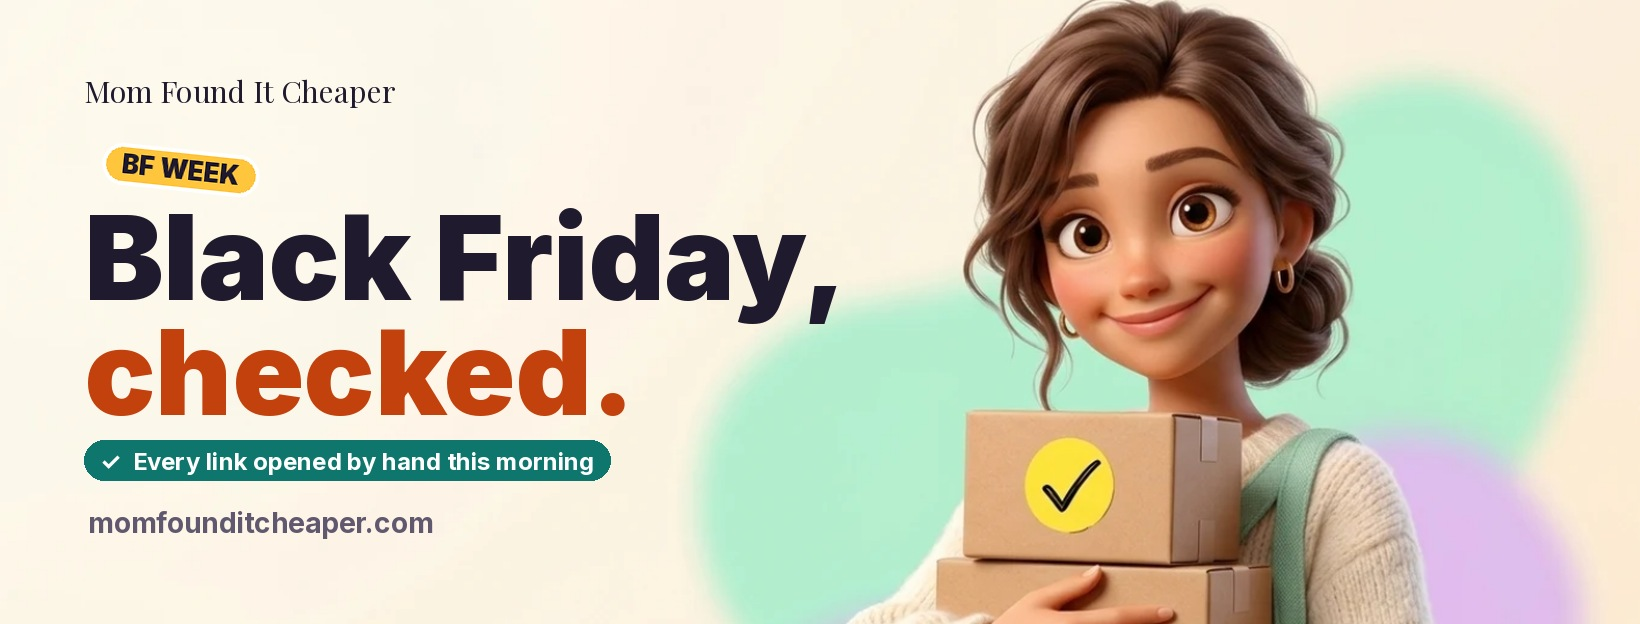
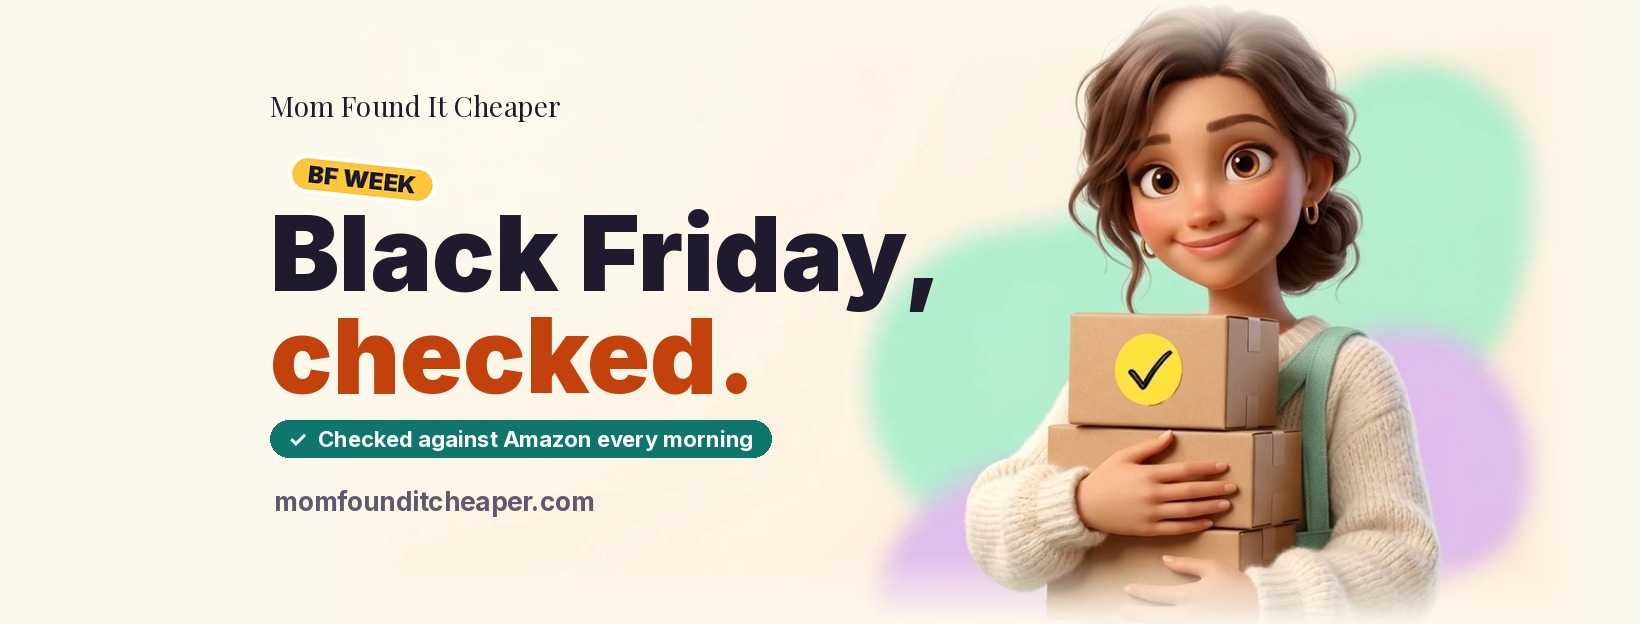
QA fixes: truthful check times, tier from Amazon check only, no fabricated drop, no aggregator names/counts, mom-weighted Top 5, tangerine budget, no dark fills, covers in safe zones, hit.js hardened
Claude-Session: https://claude.ai/code/session_013VSLL9D9UfzTwCfefZ99GJ

diff --git a/functions/hit.js b/functions/hit.js
@@ -1,23 +1,29 @@
 // Cloudflare Pages Function: our own click/save counter (no third party, no cookies).
-// POST /hit  {"k":"B0XXXX","t":"click"|"save"}  -> increments KV counter  hit:<t>:<k>
+// POST /hit  {"k":"B0XXXX"}  -> increments KV counter hit:click:<k> (same-site origin only)
 // GET  /hit?k=B0XXXX,B0YYYY                     -> {"B0XXXX":{"click":12,"save":3},...}
-// Needs a KV namespace bound as COUNTS in Cloudflare Pages -> Settings -> Bindings. Without it, GET returns {}.
+// Add a Cloudflare rate-limit rule on /hit (e.g. 20 req/min per IP). Needs a KV namespace bound as COUNTS in Cloudflare Pages -> Settings -> Bindings. Without it, GET returns {}.
+const OK_HOSTS = new Set(["momfounditcheaper.com", "www.momfounditcheaper.com", "mom-found-it-cheaper-deals.pages.dev"]);
+const KEY = /^(?:[A-Z0-9]{10}|[0-9a-f]{10})$/;   // ASIN or our 10-hex deal id, nothing else
 export async function onRequest({ request, env }) {
-  const h = { "content-type": "application/json", "access-control-allow-origin": "*", "cache-control": "no-store" };
+  const h = { "content-type": "application/json", "cache-control": "no-store" };
   if (!env.COUNTS) return new Response("{}", { headers: h });
+  if (request.method !== "GET" && request.method !== "POST") return new Response("", { status: 405 });
   const url = new URL(request.url);
+  const origin = request.headers.get("Origin") || request.headers.get("Referer") || "";
+  let ohost = ""; try { ohost = new URL(origin).hostname; } catch (e) {}
+  if (request.method === "POST" && !OK_HOSTS.has(ohost)) return new Response("{}", { status: 403, headers: h });
   if (request.method === "POST") {
     let b = {};
     try { b = await request.json(); } catch (e) { return new Response("{}", { status: 400, headers: h }); }
-    const k = String(b.k || "").slice(0, 40).replace(/[^A-Za-z0-9_-]/g, "");
-    const t = b.t === "save" ? "save" : "click";
-    if (!k) return new Response("{}", { status: 400, headers: h });
+    const k = String(b.k || "");
+    const t = "click";
+    if (!KEY.test(k)) return new Response("{}", { status: 400, headers: h });
     const key = `hit:${t}:${k}`;
     const n = parseInt((await env.COUNTS.get(key)) || "0", 10) + 1;
     await env.COUNTS.put(key, String(n));
     return new Response(JSON.stringify({ [k]: { [t]: n } }), { headers: h });
   }
-  const ks = (url.searchParams.get("k") || "").split(",").map(s => s.replace(/[^A-Za-z0-9_-]/g, "")).filter(Boolean).slice(0, 120);
+  const ks = (url.searchParams.get("k") || "").split(",").filter(k => KEY.test(k)).slice(0, 120);
   const out = {};
   await Promise.all(ks.map(async k => {
     const [c, s] = await Promise.all([env.COUNTS.get(`hit:click:${k}`), env.COUNTS.get(`hit:save:${k}`)]);

diff --git a/build_site.py b/build_site.py
@@ -213,8 +213,11 @@ def _checked_label(m):
     if not ts:
         return ""
     from zoneinfo import ZoneInfo
-    dt = datetime.fromtimestamp(ts, ZoneInfo("America/New_York"))
-    return "Checked " + dt.strftime("%-I:%M %p").replace("AM", "AM ET").replace("PM", "PM ET")
+    tz = ZoneInfo("America/New_York")
+    dt = datetime.fromtimestamp(ts, tz)
+    today = datetime.now(tz).date()
+    t = dt.strftime("%-I:%M %p") + " ET"
+    return "Checked " + (t if dt.date() == today else ("yesterday " if (today - dt.date()).days == 1 else dt.strftime("%b %-d ") ) + t)
 
 
 def _drop_pct(d, history, now_price):
@@ -226,7 +229,7 @@ def _drop_pct(d, history, now_price):
     return int(round(100 * (hi - now_price) / hi)) if hi > now_price else 0
 
 
-def card(d, history, tested, rank=0):
+def card(d, history, tested, rank=0, idsuffix=""):
     import brand
     orig_title = d["title"]
     d = dict(d, title=clean_title(d["title"]))
@@ -239,16 +242,12 @@ def card(d, history, tested, rank=0):
     amz = is_amz and AMAZON_PRICES == "hide"
     _mm = META.get(d.get("asin", "")) or {}
     # the number: Amazon's current price from the morning check (owner decision 2026-11-25), else deal price
-    now_price = price_num(_mm.get("now")) if _mm.get("v", 0) >= 4 else None
-    if now_price is None:
-        now_price = price_num(d.get("price"))
-    tier_txt = brand.tier(now_price)
+    now_price = price_num(_mm.get("now")) if _mm.get("v", 0) >= 4 else None   # Amazon check only, never the feed price
+    tier_txt = brand.tier(now_price) if now_price is not None else ""
     pct = _drop_pct(d, history, now_price)
     # ONE sticker, from verifiable states only
     low = orig_title.lower()
-    if pct >= 30:
-        sticker = f"{pct}% OFF"
-    elif "black friday" in low or "bf " in low:
+    if "black friday" in low or "bf " in low:
         sticker = "BF DEAL"
     elif now_price is not None and now_price < 10:
         sticker = "UNDER $10"
@@ -261,20 +260,22 @@ def card(d, history, tested, rank=0):
     checked = _checked_label(_mm)
     votes = d.get("thumbs", 0)
     buzz = viral_sources(d, SIGNALS)
-    proof2 = (f"{votes} votes on {html.escape(d.get('source','Slickdeals').split(' ')[0])}" if votes >= 5
-              else (f"Buzzing on {html.escape(buzz[0])}" if buzz else ""))
+    # No third-party names or vote counts on cards (Slickdeals ToS forbids repurposing their content/marks).
+    proof2 = "Trending" if len(buzz) >= 2 or votes >= 30 else ""   # no third-party names or counts; our own counts appear via /hit
     why = (d.get("features") or [""])[0]
     ss = "with Subscribe &amp; Save" if re.search(r"S&S|Sub(?:scribe)?\s*(?:&|and)\s*Save", orig_title, re.I) else ""
     code = d.get("code", "")
     real_code = bool(code and code != "w/ code" and code.lower() in str(_mm.get("promo", "")).lower())
     _th = thumb_for(d)
     title = _amz_title(d) or no_price_title(d["title"])
+    title = re.sub(r"\b(?=[A-Z0-9-]{5,}\b)(?=[A-Z0-9-]*\d)(?=[A-Z0-9-]*[A-Z])[A-Z0-9-]+\b", "", title)   # drop model codes like 32516HD
+    title = re.sub(r"\s{2,}", " ", title).strip(" ,-")
     tags = " ".join(filter(None, ["has-code" if real_code else "", "has-coupon" if d.get("coupon") else "",
                                   "under25" if now_price is not None and now_price < 25 else "", "viral" if len(buzz) >= 2 else ""]))
     return f"""
-<article class="card {tags}" id="d-{i}" data-title="{html.escape(title.lower())}" data-cat="{html.escape(d.get('category','Everything else'))}" data-store="{html.escape(d.get('store','Other'))}" data-asin="{html.escape(d.get('asin',''))}">
-  <a class="ph" href="{html.escape(url)}" target="_blank" rel="sponsored noopener" data-track="{html.escape(d.get('asin') or i)}">{f'<img src="{_th}" loading="lazy" alt="{html.escape(title)}">' if _th else ''}{f'<span class="stk">{sticker}</span>' if sticker else ''}</a>
-  {f'<div class="tier">{html.escape(tier_txt)}</div>' if tier_txt and not amz else (f'<div class="tier">{html.escape(tier_txt)}</div>' if tier_txt else '<div class="tier small">Price dropped</div>')}
+<article class="card {tags}" id="d-{i}{idsuffix}" data-title="{html.escape(title.lower())}" data-cat="{html.escape(d.get('category','Everything else'))}" data-store="{html.escape(d.get('store','Other'))}" data-asin="{html.escape(d.get('asin',''))}">
+  <a class="ph" href="{html.escape(url)}" target="_blank" rel="sponsored noopener">{f'<img src="{_th}" loading="lazy" alt="{html.escape(title)}">' if _th else ''}{f'<span class="stk">{sticker}</span>' if sticker else ''}</a>
+  {f'<div class="tier">{html.escape(tier_txt)}</div>' if tier_txt else ''}
   <h3>{html.escape(title)}</h3>
   <div class="proof">{f'<span class="chk">&#10003; {checked}</span>' if checked else ''}{f'<span class="fact">{proof2}</span>' if proof2 else ''}<span class="fact saved" data-saved="{html.escape(d.get('asin') or i)}"></span></div>
   {f'<div class="why">{html.escape(why)}</div>' if why else ''}
@@ -307,7 +308,7 @@ def trending_section():
     cells = "".join(
         f'<a class="viral" href="{html.escape(f"https://www.amazon.com/dp/{s['asin']}?tag={TAG}" if TAG and s.get("asin") else s["link"])}" target="_blank" rel="sponsored noopener">'
         + f'<img src="{thumb_for({"id": s["link"], "title": s["title"], "asin": s["asin"]})}" alt="{html.escape(s["title"][:100])}" loading="lazy" style="width:100%;aspect-ratio:4/3;object-fit:contain;background:#fff;border-radius:10px;margin-bottom:8px">' + ("" if AMAZON_PRICES == "hide" else _price_html(s["asin"])) +
-        f'<span>{html.escape(s["source"])}{(" · " + html.escape(s["label"])) if s.get("label") else ""}</span>'
+        f'<span>Trending</span>'
         f'<em>{html.escape(s["title"][:80])}</em></a>' for s in picks[:12])
     return ('<section><h2>Trending right now</h2><p class="sub">What people are buying and talking about '
             'on TikTok, Reddit, YouTube and Amazon price trackers</p><div class="virals">' + cells + '</div></section>')
@@ -325,10 +326,10 @@ def viral_section(viral):
 
 
 CSS = """
-:root{--cream:#FFF6EC;--ink:#1F1A2E;--muted:#60586E;--tang:#C2410C;--yel:#FFC53D;--green:#0F766E;--mint:#D7F3E6;--lav:#EDE7FF;--peach:#FFE8B0;--was:#B91C1C;
+:root{--cream:#FFF6EC;--ink:#1F1A2E;--muted:#60586E;--tang:#C2410C;--yel:#FFC53D;--green:#0F766E;--mint:#D7F3E6;--lav:#EDE7FF;--peach:#FFE8B0;
 --ivory:#FFF6EC;--char:#1F1A2E;--gold:#C2410C;--blush:#FFE8B0;--coral:#C2410C;--coral2:#C2410C}
 *{box-sizing:border-box}body{margin:0;background:var(--cream);color:var(--ink);font-family:Inter,system-ui,sans-serif;padding-bottom:64px}
-a{color:var(--tang)}
+a{color:var(--ink)}
 header{background:var(--cream);color:var(--ink)}
 .hero{max-width:1120px;margin:0 auto;display:grid;grid-template-columns:1.1fr .9fr;align-items:center;gap:8px;padding:22px 20px 0}
 .hero-txt{padding:10px 0 30px}
@@ -352,10 +353,10 @@ section{margin-top:26px}h2{font-size:32px;margin:0 0 6px;letter-spacing:-.01em}
 .ph{position:relative;display:block;border-radius:16px;overflow:hidden;background:#fff;border:1px solid #F3EDE4}
 .ph img{width:100%;aspect-ratio:1/1;object-fit:contain;display:block;background:#fff}
 .ph .stk{position:absolute;top:10px;left:10px}
-.tier{font-size:40px;font-weight:900;letter-spacing:-.03em;color:var(--tang);line-height:1;font-variant-numeric:tabular-nums;white-space:nowrap}.top5 .tier{font-size:32px}.tier.small{font-size:22px}
+.tier{font-size:32px;font-weight:900;letter-spacing:-.03em;color:var(--ink);line-height:1;font-variant-numeric:tabular-nums;white-space:nowrap}.top5 .tier{font-size:28px}.tier.small{font-size:22px}
 .card h3{font-size:17px;line-height:1.3;margin:0;font-weight:600;display:-webkit-box;-webkit-line-clamp:2;-webkit-box-orient:vertical;overflow:hidden}
 .proof{display:flex;gap:8px;flex-wrap:wrap;font-size:12px;align-items:center;min-height:16px}
-.chk{background:var(--green);color:#fff;padding:3px 8px;border-radius:20px;font-weight:600}
+.chk{background:var(--green);color:#fff;padding:3px 8px;border-radius:20px;font-weight:600;white-space:nowrap}
 .fact{color:var(--muted);font-weight:500}.saved:empty{display:none}
 .why{font-size:13px;color:var(--muted)}.why.ss{color:var(--ink);font-weight:600}
 .code{border:1px dashed var(--tang);background:var(--cream);border-radius:10px;padding:10px;font-size:14px;cursor:pointer;text-align:left}
@@ -363,16 +364,17 @@ section{margin-top:26px}h2{font-size:32px;margin:0 0 6px;letter-spacing:-.01em}
 .go{margin-top:auto;background:var(--tang);color:#fff;text-align:center;padding:14px;border-radius:30px;text-decoration:none;font-weight:700;font-size:16px;white-space:nowrap}.top5 .go{font-size:14px;padding:12px}.go:hover{background:#9A3409}
 .paid{font-size:11px;color:var(--muted);text-align:center}.chip{background:var(--lav);color:var(--ink);padding:2px 8px;border-radius:20px}
 .cats{display:flex;gap:8px;flex-wrap:wrap;margin:10px 0}.cats button,.bar button{border:1px solid #E6DCCF;background:#fff;border-radius:30px;padding:8px 14px;font-size:13px;cursor:pointer;color:var(--ink)}
-.cats button.on,.bar button.on{background:var(--ink);border-color:var(--ink);color:#fff;font-weight:700}
+.cats button.on,.bar button.on{background:#fff;border:2px solid var(--ink);color:var(--ink);font-weight:800}
 .bar{display:flex;gap:8px;flex-wrap:wrap;margin:0 0 16px;align-items:center}.bar input,.bar select{padding:10px 12px;border:1px solid #E6DCCF;border-radius:30px;font-size:14px;background:#fff}
 .virals{display:grid;grid-template-columns:repeat(auto-fill,minmax(170px,1fr));gap:12px}
 .viral{background:#fff;border-radius:18px;padding:12px;text-decoration:none;color:var(--ink);display:block;border:1px solid #F1E9DE}.viral span{display:block;font-size:11px;color:var(--muted);margin-top:4px}.viral em{display:block;font-style:normal;font-size:13px;font-weight:600;margin-top:4px}
 .empty{display:none;padding:24px;text-align:center;color:var(--muted)}
 footer{max-width:1120px;margin:30px auto;padding:0 16px;font-size:12px;color:var(--muted);line-height:1.6}footer a{color:var(--muted)}
-.stick{position:fixed;left:50%;transform:translateX(-50%);bottom:14px;background:var(--ink);color:#fff;text-align:center;padding:12px 22px;font-weight:700;z-index:9;text-decoration:none;border-radius:30px;box-shadow:0 8px 24px rgba(31,26,46,.25)}
+.stick{position:fixed;left:50%;transform:translateX(-50%);bottom:14px;background:#fff;color:var(--ink);border:2px solid var(--ink);text-align:center;padding:12px 22px;font-weight:700;z-index:9;text-decoration:none;border-radius:30px;box-shadow:0 8px 24px rgba(31,26,46,.25)}
 :focus-visible{outline:3px solid #1f4fd8;outline-offset:2px;scroll-margin-bottom:70px}.skip{position:absolute;left:-999px}.skip:focus{left:8px;top:8px;background:#fff;padding:8px;z-index:20}
 .kicker,.rule,.mia,.tested-badge,.badge,.top,.where,.meta,.price,.now,.was,.off,.stars,.amz,.coupon,.asof,.also,.buzz,.hist,.feats{display:none}
-@media(max-width:760px){.hero{grid-template-columns:1fr;padding-top:14px}h1{font-size:42px}.hero img.scene{max-height:260px;object-fit:cover;object-position:right top}.tier{font-size:34px}}
+@media(max-width:760px){.hero{grid-template-columns:1fr;padding-top:14px}h1{font-size:40px}.hero img.scene{order:-1;max-height:230px;object-fit:cover;object-position:70% 20%}.tier{font-size:30px}
+.top5 .grid{display:flex;overflow-x:auto;scroll-snap-type:x mandatory;gap:12px;padding-bottom:8px}.top5 .card{min-width:78%;scroll-snap-align:start}}
 """
 
 
@@ -391,7 +393,7 @@ const H='/hit';
 document.querySelectorAll('[data-track]').forEach(a=>a.addEventListener('click',()=>{try{navigator.sendBeacon?navigator.sendBeacon(H,new Blob([JSON.stringify({k:a.dataset.track,t:'click'})],{type:'application/json'})):fetch(H,{method:'POST',body:JSON.stringify({k:a.dataset.track,t:'click'}),keepalive:true});}catch(e){}}));
 (async()=>{try{const ks=[...new Set([...document.querySelectorAll('.saved[data-saved]')].map(e=>e.dataset.saved))];if(!ks.length)return;
  const r=await fetch(H+'?k='+ks.slice(0,120).join(','));if(!r.ok)return;const j=await r.json();
- document.querySelectorAll('.saved[data-saved]').forEach(e=>{const c=(j[e.dataset.saved]||{}).click||0;if(c>=5)e.textContent=c+' moms clicked this';});}catch(e){}})();
+ document.querySelectorAll('.saved[data-saved]').forEach(e=>{const c=(j[e.dataset.saved]||{}).click||0;if(c>=5)e.textContent=c+' clicks this week';});}catch(e){}})();
 const _st=document.querySelector('.stick'),_t5=document.getElementById('top5');if(_st&&_t5&&'IntersectionObserver' in window){new IntersectionObserver(es=>{const r=_t5.getBoundingClientRect();_st.style.display=(r.top<innerHeight*0.6)?'none':'';}).observe(_t5);addEventListener('scroll',()=>{const r=_t5.getBoundingClientRect();_st.style.display=(r.top<innerHeight*0.6)?'none':'';},{passive:true});}
 try{if(location.search.includes('admin=1'))localStorage.setItem('mfic-admin','1');if(localStorage.getItem('mfic-admin'))document.body.classList.add('is-admin');}catch(e){}
 """
@@ -446,7 +448,7 @@ purchase so we can be credited. Their privacy policies apply once you leave our 
 def legal_page(title, body):
     return f"""<!doctype html><html lang="en"><head><meta charset="utf-8"><meta name="viewport" content="width=device-width,initial-scale=1">
 <title>{title} | {BRAND}</title>
-<link href="https://fonts.googleapis.com/css2?family=Inter:wght@400;600&family=Playfair+Display:wght@700&display=swap" rel="stylesheet">
+<link href="https://fonts.googleapis.com/css2?family=Inter:wght@400;600;800;900&family=Playfair+Display:wght@700&display=swap" rel="stylesheet">
 <style>{CSS} main{{max-width:760px}} main p,main li{{line-height:1.65;font-size:15px}} main h3{{font-family:'Playfair Display',Georgia,serif;margin:22px 0 6px}}</style></head>
 <body><header><div class="kicker"><a href="index.html" style="color:inherit;text-decoration:none">&larr; MOM FOUND IT CHEAPER</a></div><h1>{title}</h1></header>
 <main>{body}<p style="color:#7a7068;font-size:13px">Last updated {LEGAL_UPDATED}.</p></main></body></html>"""
@@ -506,7 +508,7 @@ def signup_html():
                 '<label class="skip" for="em">Email</label><input id="em" type="email" name="email" required placeholder="your@email.com" autocomplete="email">'
                 '<button type="submit">Send me the Top 5 at 7am</button></form>'
                 '<div class="sub-note">Free. One email a day, unsubscribe any time. No spam, ever.</div>')
-    return '<div class="sub-note">Daily Top 5 email is coming. Until then, follow the Page so you don\'t miss a find.</div>'
+    return '<div class="sub-note">Daily Top 5 email is coming. Until then, <a href="https://www.facebook.com/groups/1815840112666601" target="_blank" rel="noopener">follow us on Facebook</a> so you don\'t miss a find.</div>'
 
 
 def top5(picked, history, tested):
@@ -515,13 +517,17 @@ def top5(picked, history, tested):
     skip = _re.compile(r"gaming pc|desktop|rtx|blu-ray|4k uhd|vinyl|motherboard|cpu|ssd|server", _re.I)
     def rank(d):
         return (d.get("thumbs", 0), len(viral_sources(d, SIGNALS)), d["seen"])
+    mom = {"Toys & Games": 3, "Baby & Kids": 3, "Home & Kitchen": 3, "Beauty & Health": 2, "Holiday & Seasonal": 2,
+           "Grocery & Household": 2, "Pets": 2, "Fashion": 1, "Office & School": 1, "Sports & Fitness": 1}
+    def rank(d):
+        return (mom.get(d.get("category", ""), 0), d.get("thumbs", 0), len(viral_sources(d, SIGNALS)), d["seen"])
     pool = [d for d in picked if not skip.search(d["title"])]
     best = sorted(pool, key=rank, reverse=True)[:5]
     if len(best) < 3:
         return ""
-    cards = "".join(card(d, history, tested, rank=i) for i, d in enumerate(best, 1))
+    cards = "".join(card(d, history, tested, rank=i, idsuffix="-t5") for i, d in enumerate(best, 1))
     return (f'<section class="top5" id="top5"><h2>Today\'s Top 5</h2>'
-            f'<p class="sub">Five I\'d buy today. Every link opened by hand this morning.</p>'
+            f'<p class="sub">Five I\'d buy today. Each link checked against Amazon today.</p>'
             f'<div class="grid">{cards}</div></section>')
 
 
@@ -602,7 +608,7 @@ def main():
 <header><div class="hero"><div class="hero-txt"><div class="wordmark">Mom Found It Cheaper</div>
 <span class="stk hero-stk">{hero_sticker()}</span>
 <h1>{hero_hook()}</h1>
-<p class="proofline">&#10003; Every link opened by hand this morning{(' &middot; ' + _checked_label(_latest_meta())) if _latest_meta().get('checked') else ''}. I'm Mia. No guessed prices, ever.</p>
+<p class="proofline">&#10003; Every link checked against Amazon today{(' &middot; ' + _checked_label(_latest_meta()).replace('Checked ', '')) if _latest_meta().get('checked') else ''}. I'm Mia. Tap any card for today's Amazon price.</p>
 {signup_html()}
 <a class="join" href="#top5">See today's 5 &darr;</a></div>
 <img class="scene" src="mia-scene.jpg" width="1428" height="803" alt="Mia, the mom behind Mom Found It Cheaper, holding a stack of checked delivery boxes" fetchpriority="high"></div></header>
@@ -624,7 +630,7 @@ def main():
 Prices, availability, coupons and promo codes are set by the retailers and can change or expire at any time. Always check the final price at checkout before you buy.
 We are not the seller and do not handle orders, shipping, returns or warranties — contact the retailer for those.
 "Lowest price we've seen" is based only on prices we have recorded, not a guarantee of an all-time low. Product details come from the deal listing and the retailer; we do not guarantee them.<br>
-Deal sources: Slickdeals and DealNews community feeds, with thanks. Amazon and other store names are trademarks of their owners; we are not affiliated with or endorsed by them.<br>
+Deals are found from public deal feeds and checked against Amazon each morning. Amazon and other store names are trademarks of their owners; we are not affiliated with or endorsed by them.<br>
 <a href="disclosure.html">Affiliate disclosure</a> · <a href="terms.html">Terms &amp; conditions</a> · <a href="privacy.html">Privacy policy</a></footer>
 <a class="stick" href="#top5">Today's 5 &darr;</a>
 <script>{JS}</script></body></html>"""

diff --git a/CLAUDE.md b/CLAUDE.md
@@ -10,3 +10,5 @@ Site gate: card shown only if real photo AND verify_link.check passes (Amazon ti
 Status 2026-11-24: strict QA ready: post_7, post_single, post_q5, post_q9. Need fix: post_1, post_6, post_8, post_q1, post_q8. Nothing posted except De'Longhi single (earlier). Open: seller field blank (rerun Lenovo), PROMO_JS color/size selectors empty, Page+Graph API poster not built, Task Scheduler unconfirmed.
 
 BRAND (2026-11-25): persona = Mia (AI, Google Flow Character "Mia (Mom Found It Cheaper) v1" in project "Nov 25 - 20:04"); assets in brand/; Rohini stays anonymous. Plan: launch/PLAN.md. Daily approval queue: make_queue.py -> queue/QUEUE.md -> GitHub issue label `approval` (videos.yml); she approves by comment; nothing auto-posts. Flow image gen is free for her; use Chrome deviceId 3da0a233 (personal) for Flow, never 1f163a7c (work).
+
+SOURCES (2026-11-25): Slickdeals ToS forbids copying/displaying their offers or using their name; never show "Slickdeals" or their vote counts on site/posts. Deal-feed thumbnails carry the same exposure (owner accepted). Preferred future source: Amazon's own deals pages via the Lenovo run. DealNews terms unchecked.
